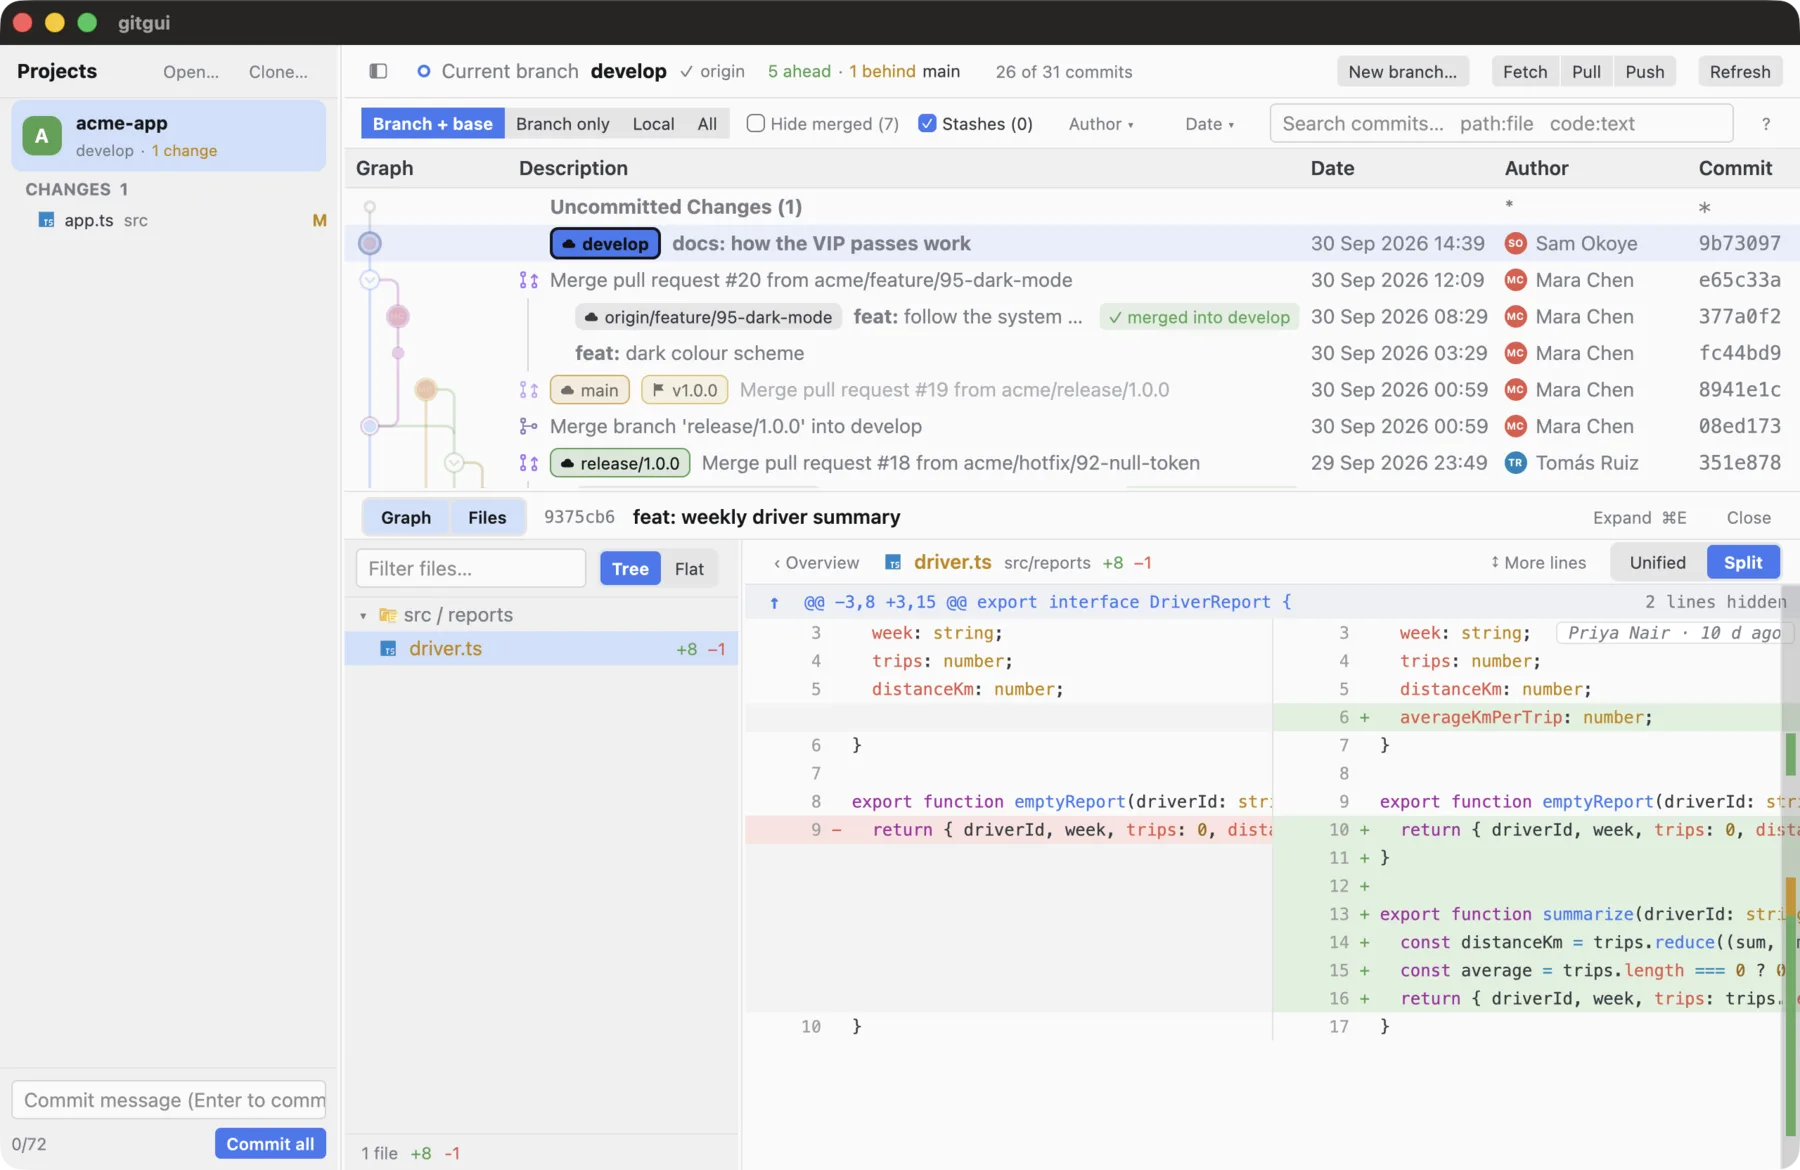
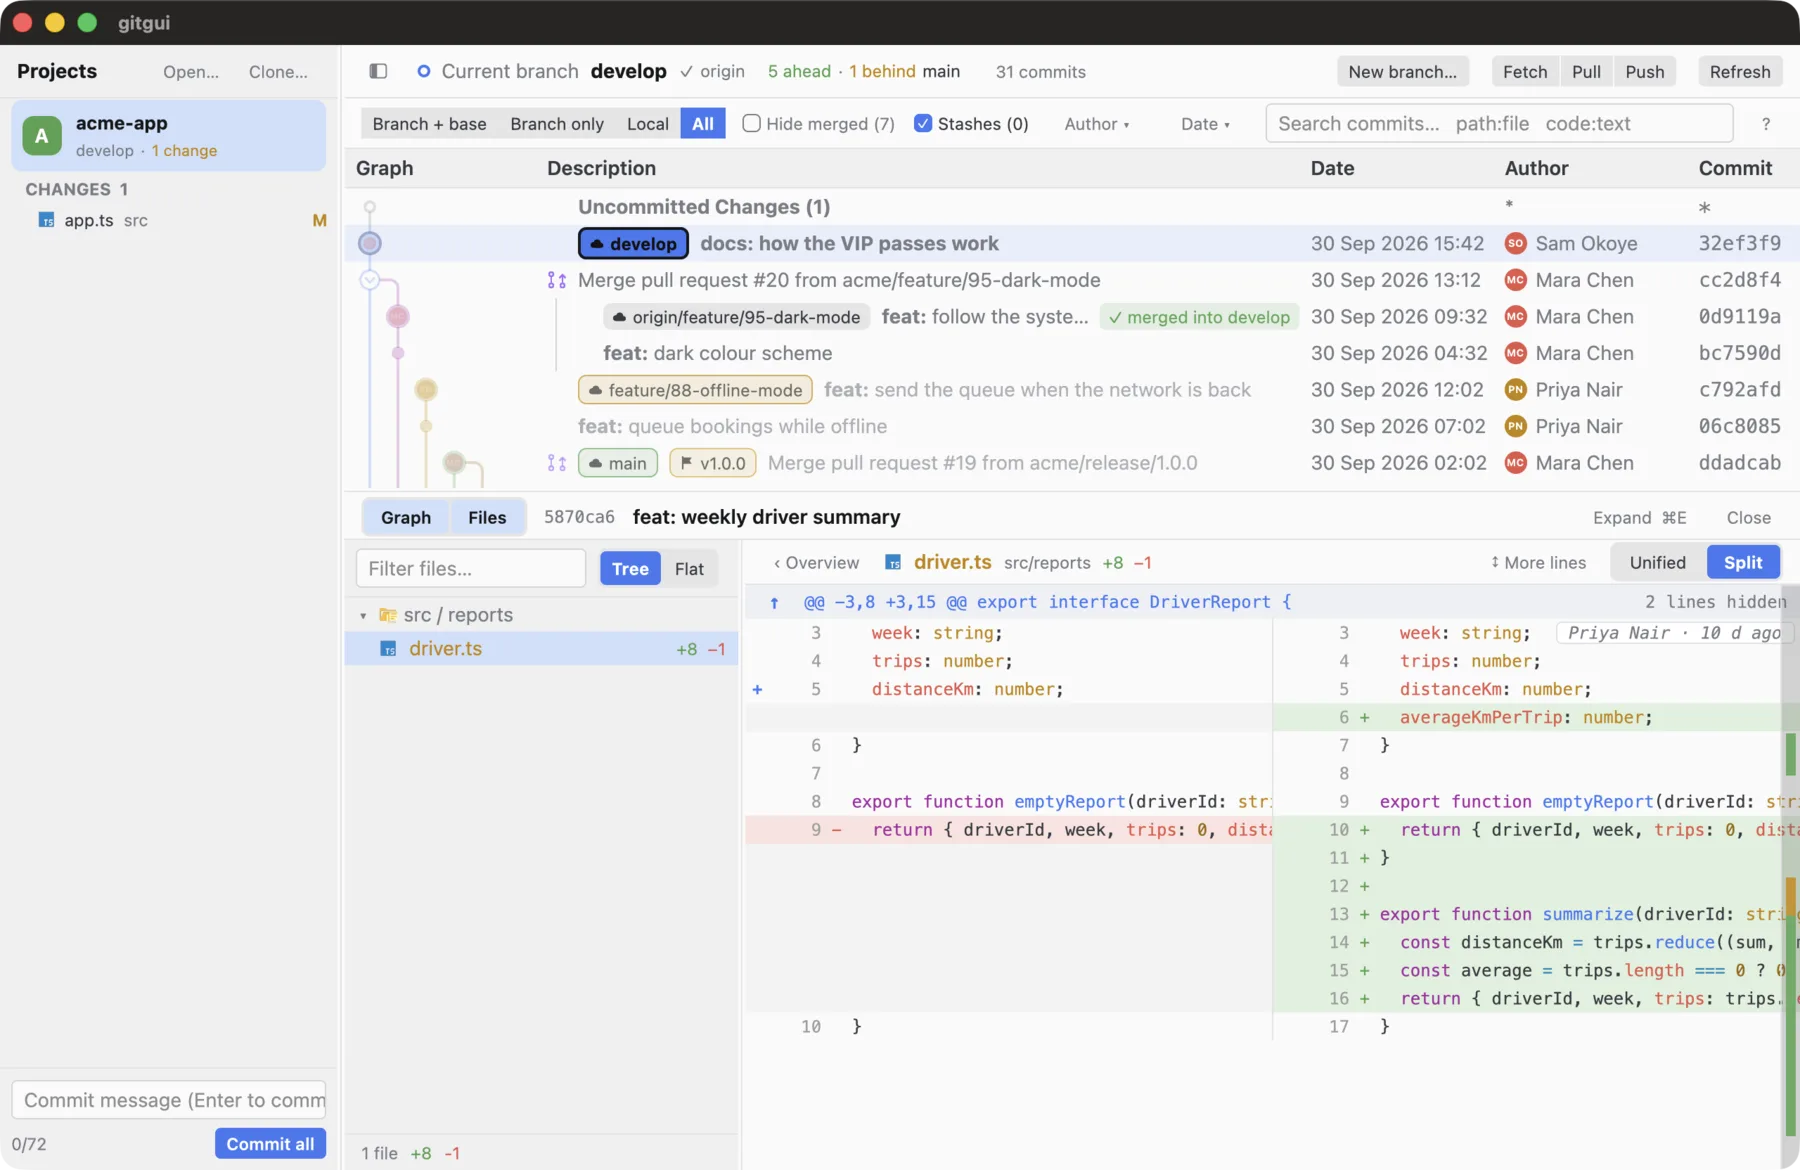
graph: All is the default view again; Branch + base is one click away (tests, guide and README pictures follow)

diff --git a/crates/app/src/tests.rs b/crates/app/src/tests.rs
@@ -611,8 +611,7 @@ async fn a_squash_merged_branch_is_noted_and_goes_under_its_squash_commit(cx: &m
     let fx = squashed_pr("squash-ui");
     let (ws, cx) = cx.add_window_view(|_, cx| Workspace::with_store(Ok(Store::at(fx.data())), cx));
     open_project(&ws, cx, &fx.repo()); // the scan finishes in the background too
-    // The squashed branch is not HEAD's, nor its base: the default view leaves it out, All shows it.
-    ws.update(cx, |ws, cx| ws.set_scope(gitgui_core::Scope::All, cx));
+    // The default view shows every branch, so the squashed one is there.
     draw(cx, &ws);
 
     // The branch's commits are nested under the commit that carries them.
@@ -1103,7 +1102,9 @@ async fn the_filter_bar_narrows_the_graph_and_the_search_finds_commits(cx: &mut 
 
     let (ws, cx) = cx.add_window_view(|_, cx| Workspace::with_store(Ok(Store::at(fx.data())), cx));
     open_project(&ws, cx, &fx.repo());
-    // The default view is the branch, the one it was cut from, and their remote copies: not the other branch.
+    // The default view is every branch; Branch + base is the branch, the one it was cut from, and their remote copies.
+    assert_eq!(summaries(&ws, cx), ["feat work", "other work", "change", "base"]);
+    ws.update(cx, |ws, cx| ws.set_scope(Scope::Focus, cx));
     assert_eq!(summaries(&ws, cx), ["feat work", "change", "base"]);
     ws.update(cx, |ws, cx| ws.set_scope(Scope::All, cx));
     assert_eq!(summaries(&ws, cx), ["feat work", "other work", "change", "base"]);
@@ -3573,7 +3574,11 @@ async fn commits_only_here_or_only_on_the_remote_are_marked_and_a_label_click_is
     assert!(found.contains(&("mine".into(), Some(Mark::Unpushed))), "{found:?}");
     assert!(found.contains(&("theirs".into(), Some(Mark::Unpulled))), "{found:?}");
     assert!(found.contains(&("base".into(), None)), "{found:?}");
-    assert!(!found.iter().any(|(summary, _)| summary == "side work"), "the default view leaves the other branch out: {found:?}");
+    assert!(found.iter().any(|(summary, _)| summary == "side work"), "the default view shows every branch: {found:?}");
+    // Branch + base leaves the other branch out.
+    ws.update(cx, |ws, cx| ws.set_scope(gitgui_core::Scope::Focus, cx));
+    assert!(!marks(&ws, cx).iter().any(|(summary, _)| summary == "side work"));
+    ws.update(cx, |ws, cx| ws.set_scope(gitgui_core::Scope::All, cx));
     draw(cx, &ws);
 
     // Pointing at a row brings its line forward, and leaving puts it back.

diff --git a/crates/core/src/filter.rs b/crates/core/src/filter.rs
@@ -13,9 +13,9 @@ use crate::model::{Commit, RefKind};
 pub enum Scope {
     /// The branch HEAD is on, the branch it was cut from, and their remote copies: where the work stands
     /// against the trunk and the remote, without the other branches around it.
-    #[default]
     Focus,
     /// Every branch, remote ones included, with tags and stashes.
+    #[default]
     All,
     /// Local branches, and the remote copies that point where they do.
     Local,

diff --git a/docs/guide.md b/docs/guide.md
@@ -112,7 +112,7 @@ Left to right: **projects** | **graph** with the **file pane** below it (or besi
   - Stashes are one `stash@{n}` commit; an *Uncommitted Changes* row sits on top.
 - **Settings** (Cmd-,) is a window with five pages: *Graph* (grouping, pictures, compact, size), *Graph style*, *Files & diffs*, *Appearance* (theme cards, file icons) and *Projects* (clone folder, data folder). Everything saves as you change it.
 - **Graph style** (Settings): 14 looks for the graph, each a set of choices and not only a recolor: its own palette (fitted to your color theme so every line keeps at least 3:1 contrast with the background), how a line changes lane (curve, straight diagonal, or right angle with a rounded corner), line weight, how a commit is marked (dot, hollow ring, square), and how branch, tag and stash labels look (tinted, solid, outline, pill, capsule, dot, block). Theme (your color theme's own), Aurora, Neon, Soft, Circuit, Graphite, Colour-blind safe (Okabe–Ito), Gruvbox, Dracula, Catppuccin, Solarized, Tokyo Night, Sunset and Ocean. Each card draws a small history in its style. The tests check every style against every built-in theme.
-- **What the graph shows** (the bar above it): *Branch + base* (the default) is the branch you are on, the branch it was cut from (the project's workflow base if it names one) and their remote copies, so you see where your work stands against the trunk and the remote without the other branches around it. *Branch only* is just the history under HEAD; *Local* adds your other branches; *All* adds remote-only branches too. *Sync merges (N)* shows the merges that only bring the trunk into a branch ("Merge branch 'release/1.0.0' into feat/x"); they are left out by default and keep their own mark when shown. The **?** at the right of the bar is the key to every mark in the graph: pull request, squashed pull request, merge, sync merge, "merged into" and "already in" (a branch whose commits are part of another with no merge commit: it was fast-forwarded).
+- **What the graph shows** (the bar above it): *All* (the default) shows every branch, remote-only ones included. *Branch + base* is the branch you are on, the branch it was cut from (the project's workflow base if it names one) and their remote copies, so you see where your work stands against the trunk and the remote without the other branches around it. *Branch only* is just the history under HEAD; *Local* adds your other branches. *Sync merges (N)* shows the merges that only bring the trunk into a branch ("Merge branch 'release/1.0.0' into feat/x"); they are left out by default and keep their own mark when shown. The **?** at the right of the bar is the key to every mark in the graph: pull request, squashed pull request, merge, sync merge, "merged into" and "already in" (a branch whose commits are part of another with no merge commit: it was fast-forwarded).
 - **Where you stand**: a commit only on your machine has a green **↑** (a push would send it), one only on the remote has an amber **↓** and a hollow dot (a pull would bring it), as of the last fetch; a branch that is not on a remote yet marks everything a first push would send. Tags are flags (⚑) on their commits. Pointing at a row brings its branch line forward and dims the others; clicking a branch's label picks that branch out with the one it was cut from (a chip in the bar, or Esc, puts the others back).
 - **Rebase, shown**: after a rebase (or a pull with rebase) the new commits and the old ones they replace are marked **≈** with each other's id — they make the same changes — and pointing at one lights the other; the old ones on the remote carry ↓ and the new ones ↑. A bar under the filter bar says "feat/x was rebased onto 3f2a1b9: 3 commits rewritten" with **Undo rebase**, which (after asking) moves the branch back to where it was, from the reflog. It shows only while the rebase is the last thing that happened to the branch and the rewritten commits are not on the remote yet, and it never moves the branch over changes you have not committed; the rebased commits stay in the reflog.
 - **Pull requests and issues** (GitHub): Settings → GitHub, or the *Sign in with GitHub* button under a GitHub project in the sidebar. gitgui shows a short code and opens `github.com/login/device`; you type the code and approve there ([device flow](https://docs.github.com/en/apps/creating-github-apps/authenticating-with-a-github-app/generating-a-user-access-token-for-a-github-app) for a GitHub App), and no password comes through gitgui. The app asks for *read-only* access to pull requests and issues, on the repositories you install it on; it cannot read your code or change anything. The token lasts eight hours at a time and renews itself; it is kept in the macOS Keychain or the Windows Credential Manager, never in a file of ours. Under the open project the sidebar then lists its pull requests (the ones waiting for your review first) and issues, and `Graph | Pull requests | Issues` tabs above the graph open the full lists with *Open / Mine / Needs my review / Closed* filters and a detail panel you can drag wider or narrower by its divider: title and state, who it is assigned to (or *Unassigned*), reviewers, labels in the repository's own colors, the buttons *Show in graph* (picks the branch out), *Check out branch* (not for a fork's) and *Open on GitHub*, and the description read as markdown (headings, lists and tasks, quotes, code, links, bold and italic; raw HTML and comments are dropped). A picture in a description shows as an *Image … Open* link, not as the picture: it would be a request to a server gitgui did not choose, and GitHub does not answer it for a private repository without a browser's cookie. A repository the app is not installed on says so, with a button to install it. `GITGUI_GITHUB_FIXTURE=folder` answers from files (`user.json`, `pulls.json`, `pulls_closed.json`, `issues.json`, `issues_closed.json`) for looking at the interface without signing in.
